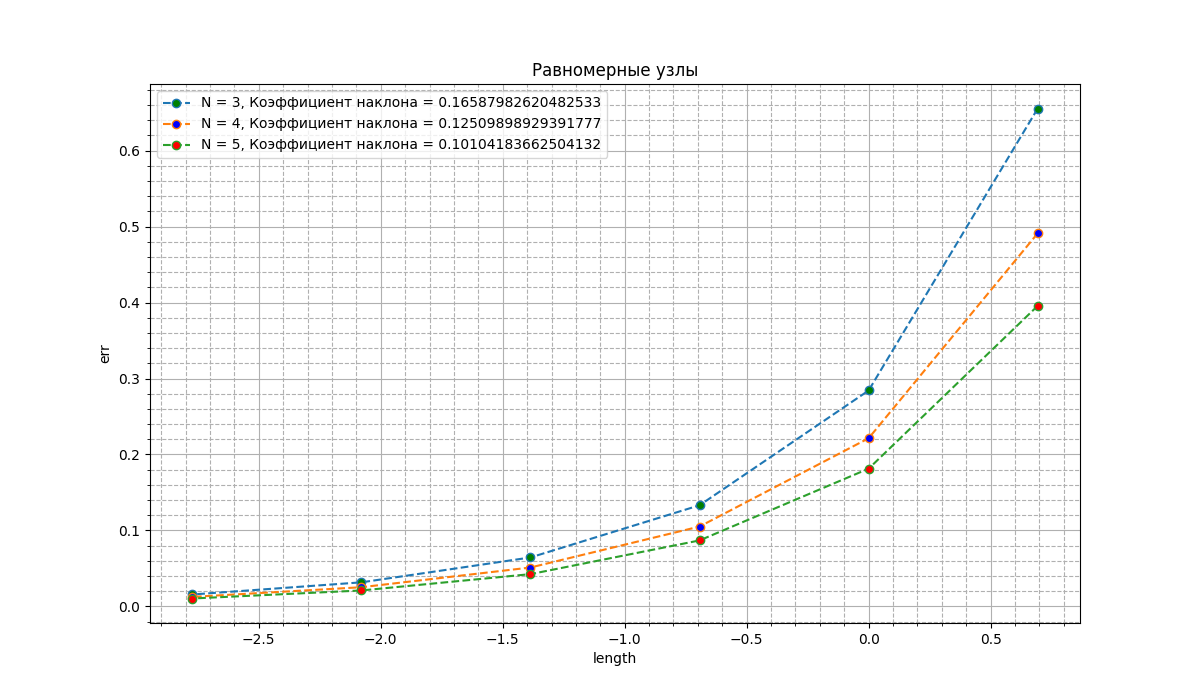
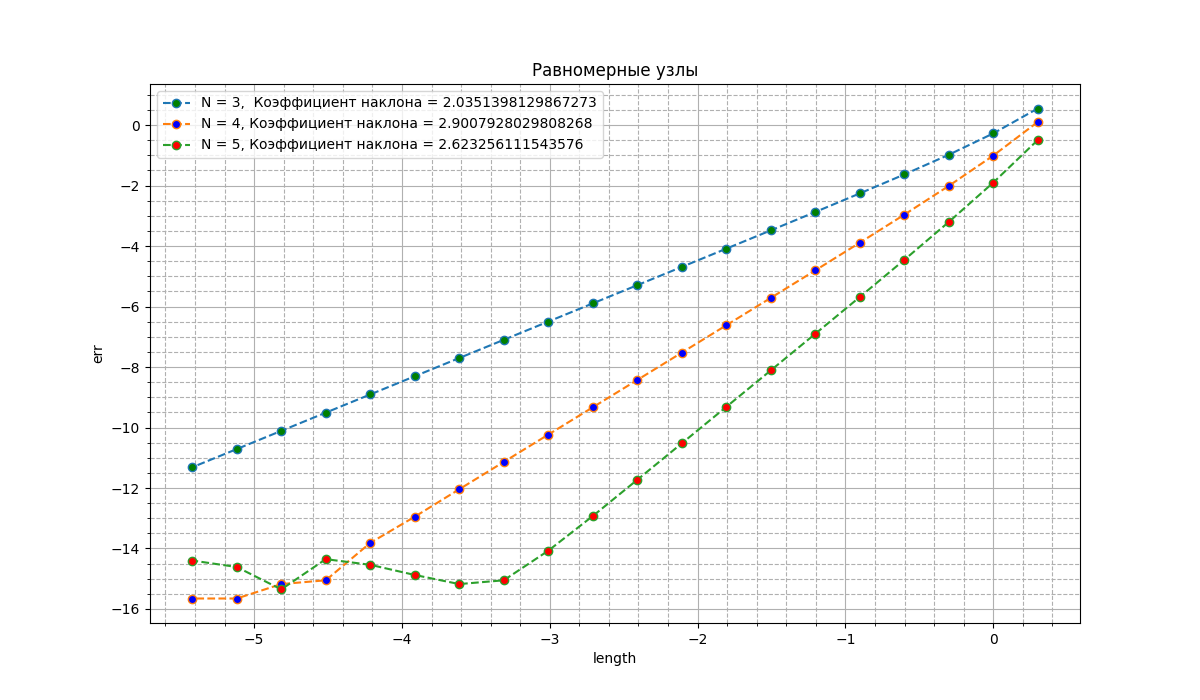
fix second lab

Changed region(s): [[0.0925, 0.12, 0.8942, 0.93], [0.0925, 0.21, 0.1233, 0.24], [0.0617, 0.48, 0.0925, 0.51]]

diff --git a/py/Interpolant/main.py b/py/Interpolant/main.py
@@ -4,22 +4,41 @@ import numpy as np
 
 def grafik():
     with open('errSecondBaseN3.txt', 'r') as errFile:
-        line1 = [i for i in errFile.read().split()]
+        pairLine= [i.split() for i in errFile.readlines()]
+        line1x = [i[1] for i in pairLine]
+        line1y = [i[0] for i in pairLine]
+        line1z = [i[2] for i in pairLine]
     with open('errSecondBaseN4.txt', 'r') as errFile:
-        line2 = [i for i in errFile.read().split()]
+        pairLine = [i.split() for i in errFile.readlines()]
+        line2x = [i[1] for i in pairLine]
+        line2y = [i[0] for i in pairLine]
+        line2z = [i[2] for i in pairLine]
     with open('errSecondBaseN5.txt', 'r') as errFile:
-        line3 = [i for i in errFile.read().split()]
+        pairLine = [i.split() for i in errFile.readlines()]
+        line3x = [i[1] for i in pairLine]
+        line3y = [i[0] for i in pairLine]
+        line3z = [i[2] for i in pairLine]
         h = []
         h.append(2.)
         for i in range(5):
             h.append(h[-1] * 0.5)
     h = np.array(h, dtype=float)
-    line1 = np.array(line1, dtype=float)
-    line2 = np.array(line2, dtype=float)
-    line3 = np.array(line3, dtype=float)
-    coef1 = np.polyfit(np.log10(h), np.log10(line1), 1)
-    coef2 = np.polyfit(np.log10(h), np.log10(line2), 1)
-    coef3 = np.polyfit(np.log10(h), np.log10(line3), 1)
+    line1x = np.array(line1x, dtype=float)
+    line1y = np.array(line1y, dtype=float)
+    line1z = np.array(line1z, dtype=float)
+    line2x = np.array(line2x, dtype=float)
+    line2y = np.array(line2y, dtype=float)
+    line2z = np.array(line2z, dtype=float)
+    line3x = np.array(line3x, dtype=float)
+    line3y = np.array(line3y, dtype=float)
+    line3z = np.array(line3z, dtype=float)
+    coef1 = np.polyfit(np.log(line1x), np.log(line1y), 1)
+    coef2 = np.polyfit(np.log(line2x), np.log(line2y), 1)
+    coef3 = np.polyfit(np.log(line3x), np.log(line3y), 1)
+    coef1z = 3 + np.log(line1z)/np.log(line1x) - np.log(3)/np.log(line1x)
+    print(coef1z)
+    coef2z = 4 + np.log(line2z)/np.log(line2x) - np.log(4)/np.log(line3x)
+    coef3z = 5 + np.log(line3z)/np.log(line3x) - np.log(5)/np.log(line3x)
     plt.figure(figsize=(12, 7))
     plt.minorticks_on()
     plt.grid(
@@ -30,12 +49,12 @@ def grafik():
         linestyle='--'
     )
 
-    plt.plot(np.log(h), np.log(line1), linestyle='dashed', marker='o', markerfacecolor='green',
-             label=f'N = 3, Коэффициент наклона = {coef1[0]}')
-    plt.plot(np.log(h), np.log(line2), linestyle='dashed', marker='o', markerfacecolor='blue',
-             label=f'N = 4, Коэффициент наклона = {coef2[0]}')
-    plt.plot(np.log(h), np.log(line3), linestyle='dashed', marker='o', markerfacecolor='red',
-             label=f'N = 5, Коэффициент наклона = {coef3[0]}')
+    plt.plot(np.log(line1x), np.log(line1y), linestyle='dashed', marker='o', markerfacecolor='green',
+             label=f'N = 3, Коэффициент наклона = {coef1[0]}, {np.min(coef1z)}')
+    plt.plot(np.log(line2x), np.log(line2y), linestyle='dashed', marker='o', markerfacecolor='blue',
+             label=f'N = 4, Коэффициент наклона = {coef2[0]}, {np.min(coef2z)}')
+    plt.plot(np.log(line3x), np.log(line3y), linestyle='dashed', marker='o', markerfacecolor='red',
+             label=f'N = 5, Коэффициент наклона = {coef3[0]}, {np.min(coef3z)}')
     # plt.loglog(h, line1, linestyle='dashed', marker='o', markerfacecolor='green',
     #          label=f'N = 3, Коэффициент наклона = {coef1[0]}')
     # plt.loglog(h, line2, linestyle='dashed', marker='o', markerfacecolor='green',
@@ -44,14 +63,14 @@ def grafik():
     #          label=f'N = 5, Коэффициент наклона = {coef3[0]}')
     #plt.xlim([-4, 2])
     #plt.ylim([0, 1])
-    plt.xlabel("length")
+    plt.xlabel("step")
     plt.ylabel(r"err")
     plt.title('Равномерные узлы')
     plt.legend()
     plt.savefig("basicLogLog.png")
     plt.show()
 
-def grafik2():
+def grafikCheb():
     with open('errChebBaseN3.txt', 'r') as errFile:
         line1 = [i for i in errFile.read().split()]
     with open('errChebBaseN4.txt', 'r') as errFile:
@@ -60,7 +79,7 @@ def grafik2():
         line3 = [i for i in errFile.read().split()]
         h = []
         h.append(2.)
-        for i in range(5):
+        for i in range(19):
             h.append(h[-1] * 0.5)
     h = np.array(h, dtype=float)
     line1 = np.array(line1, dtype=float)
@@ -76,21 +95,69 @@ def grafik2():
         which='minor',
         linestyle='--'
     )
-    print(np.log(line1))
-    print(np.log(h))
-    plt.plot(h, np.log(line1), linestyle='dashed', marker='o', markerfacecolor='green',
-             label=f'N = 3')
-    plt.plot(h, np.log(line2), linestyle='dashed', marker='o', markerfacecolor='blue',
-             label=f'N = 4')
-    plt.plot(h,np.log(line3), linestyle='dashed', marker='o', markerfacecolor='red',
-             label=f'N = 5')
-    plt.xlim([0,2])
-    plt.ylim([0,3])
+    coef1 = np.polyfit(np.log(h), np.log(line1), 1)
+    coef2 = np.polyfit(np.log(h), np.log(line2), 1)
+    coef3 = np.polyfit(np.log(h), np.log(line3), 1)
+    plt.plot(np.log(h), np.log(line1), linestyle='dashed', marker='o', markerfacecolor='green',
+             label=f'N = 3,  Коэффициент наклона = {coef1[0]}')
+    plt.plot(np.log(h), np.log(line2), linestyle='dashed', marker='o', markerfacecolor='blue',
+             label=f'N = 4, Коэффициент наклона = {coef2[0]}')
+    plt.plot(np.log(h),np.log(line3), linestyle='dashed', marker='o', markerfacecolor='red',
+             label=f'N = 5, Коэффициент наклона = {coef3[0]}')
+    # plt.xlim([0,2])
+    # plt.ylim([0,1])
     plt.xlabel("length")
     plt.ylabel(r"err")
     plt.title('Чебышевские узлы')
     plt.legend()
     plt.savefig("basicChebLogLog.png")
     plt.show()
+
+def grafikBase():
+    with open('errBaseN3.txt', 'r') as errFile:
+        line1 = [i for i in errFile.read().split()]
+    with open('errBaseN4.txt', 'r') as errFile:
+        line2 = [i for i in errFile.read().split()]
+    with open('errBaseN5.txt', 'r') as errFile:
+        line3 = [i for i in errFile.read().split()]
+        h = []
+        h.append(2.)
+        for i in range(19):
+            h.append(h[-1] * 0.5)
+    h = np.array(h, dtype=float)
+    line1 = np.array(line1, dtype=float)
+    line2 = np.array(line2, dtype=float)
+    line3 = np.array(line3, dtype=float)
+
+    plt.figure(figsize=(12, 7))
+    plt.minorticks_on()
+    plt.grid(
+        which='major'
+    )
+    plt.grid(
+        which='minor',
+        linestyle='--'
+    )
+    coef1 = np.polyfit(np.log10(h), np.log10(line1), 1)
+    coef2 = np.polyfit(np.log10(h), np.log10(line2), 1)
+    coef3 = np.polyfit(np.log10(h), np.log10(line3), 1)
+    plt.plot(np.log10(h), np.log10(line1), linestyle='dashed', marker='o', markerfacecolor='green',
+             label=f'N = 3,  Коэффициент наклона = {coef1[0]}')
+    plt.plot(np.log10(h), np.log10(line2), linestyle='dashed', marker='o', markerfacecolor='blue',
+             label=f'N = 4, Коэффициент наклона = {coef2[0]}')
+    plt.plot(np.log10(h),np.log10(line3), linestyle='dashed', marker='o', markerfacecolor='red',
+             label=f'N = 5, Коэффициент наклона = {coef3[0]}')
+    # plt.xlim([0,2])
+    # plt.ylim([0,1])
+    plt.xlabel("length")
+    plt.ylabel(r"err")
+    plt.title('Равномерные узлы')
+    plt.legend()
+    plt.savefig("basicLogLog.png")
+    plt.show()
+
+
+
+
 if __name__ == '__main__':
-    grafik()
+

diff --git a/tests/InterpolantTests.cpp b/tests/InterpolantTests.cpp
@@ -43,6 +43,7 @@ TEST(InterpolantTests, baseTest){
     fileOutBaseN5.open(py_path + "/Interpolant/errBaseN5.txt");
     double x = 2;
     double nulik = 0;
+    int length = 20;
     std::array<double, 3> pointsN3{};
     std::array<double, 3> valuesN3{};
     std::array<double, 4> pointsN4{};
@@ -51,10 +52,10 @@ TEST(InterpolantTests, baseTest){
     std::array<double, 5> valuesN5{};
     std::array<double, 1000> valuesErr{};
     std::array<double, 1000> pointsErr{};
-    for(int i = 0; i < 6; i++){
+    for(int i = 0; i < length; i++){
         double err = 0;
         double x_i = x / std::pow(x, i);
-        double step_i = x_i / 2;
+        double step_i = x_i / 3;
         double step_err = x_i / 999.;
         for(int j = 0; j < 3; j++){
             pointsN3[j] = j * step_i;
@@ -65,6 +66,7 @@ TEST(InterpolantTests, baseTest){
         }
 
         NewtonInterpolator<double, double, 3> interpolator(pointsN3, valuesN3);
+
         for(int j = 0; j < 1000; j++){
             double interpV = interpolator.interpolate(pointsErr[j]);
             err = std::max(std::abs(std::exp(pointsErr[j]) - interpV), err);
@@ -73,10 +75,10 @@ TEST(InterpolantTests, baseTest){
     }
 
 
-    for(int i = 0; i < 6; i++){
+    for(int i = 0; i < length; i++){
         double err = 0;
         double x_i = x / std::pow(x, i);
-        double step_i = x_i / 3;
+        double step_i = x_i / 4;
         double step_err = x_i / 999.;
         for(int j = 0; j < 4; j++){
             pointsN4[j] = j * step_i;
@@ -95,10 +97,10 @@ TEST(InterpolantTests, baseTest){
     }
 
 
-    for(int i = 0; i < 6; i++){
+    for(int i = 0; i < length; i++){
         double err = 0;
         double x_i = x / std::pow(x, i);
-        double step_i = x_i / 4;
+        double step_i = x_i / 5;
         double step_err = x_i / 999.;
         for(int j = 0; j < 5; j++){
             pointsN5[j] = j * step_i;
@@ -114,6 +116,7 @@ TEST(InterpolantTests, baseTest){
             err = std::max(std::abs(std::exp(pointsErr[j]) - interpV), err);
         }
         fileOutBaseN5<<err<<"\n";
+
     }
 
 }
@@ -126,6 +129,7 @@ TEST(InterpolantTests, baseChebTest){
     fileOutBaseN5.open(py_path + "/Interpolant/errChebBaseN5.txt");
     double x = 2;
     double nulik = 0;
+    int length = 20;
     std::array<double, 3> pointsN3{};
     std::array<double, 3> valuesN3{};
     std::array<double, 4> pointsN4{};
@@ -134,7 +138,7 @@ TEST(InterpolantTests, baseChebTest){
     std::array<double, 5> valuesN5{};
     std::array<double, 1000> pointsErr{};
 
-    for(int i = 0; i < 6; i++){
+    for(int i = 0; i < length; i++){
         double err = 0;
         double x_i = x / std::pow(x, i);
         pointsN3 = chebNulls<double, 3>(double(0), x_i);
@@ -154,7 +158,7 @@ TEST(InterpolantTests, baseChebTest){
         fileOutBaseN3<<err<<"\n";
     }
 
-    for(int i = 0; i < 6; i++){
+    for(int i = 0; i < length; i++){
         double err = 0;
         double x_i = x / std::pow(x, i);
         pointsN4 = chebNulls<double, 4>(double(0), x_i);
@@ -175,7 +179,7 @@ TEST(InterpolantTests, baseChebTest){
     }
 
 
-    for(int i = 0; i < 6; i++){
+    for(int i = 0; i < length; i++){
         double err = 0;
         double x_i = x / std::pow(x, i);
         pointsN5 = chebNulls<double, 5>(double(0), x_i);
@@ -200,10 +204,11 @@ TEST(InterpolantTests, baseSecondTest){
     std::ofstream fileOutBaseN3;
     std::ofstream fileOutBaseN4;
     std::ofstream fileOutBaseN5;
-    
+    std::ofstream fileOutBaseArgsN5;
     fileOutBaseN3.open(py_path + "/Interpolant/errSecondBaseN3.txt");
     fileOutBaseN4.open(py_path + "/Interpolant/errSecondBaseN4.txt");
     fileOutBaseN5.open(py_path + "/Interpolant/errSecondBaseN5.txt");
+    fileOutBaseArgsN5.open(py_path + "/Interpolant/errArgsBaseN5.txt");
     double x = 2;
     double nulik = 0;
     std::array<double, 3> pointsN3{};
@@ -216,6 +221,7 @@ TEST(InterpolantTests, baseSecondTest){
     std::array<double, 1000> pointsErr{};
     for(int i = 0; i < 6; i++){
         double err = 0;
+        double maxVal = 0;
         double x_i = x / std::pow(x, i);
         double step_i = x_i / 4;
         double step_err = x_i / 999.;
@@ -231,13 +237,15 @@ TEST(InterpolantTests, baseSecondTest){
         for(int j = 0; j < 1000; j++){
             double interpV = interpolator.interpolate(pointsErr[j]);
             err = std::max(std::abs(std::exp(pointsErr[j]) - interpV), err);
+            maxVal = std::max(std::exp(pointsErr[j]), maxVal);
         }
-        fileOutBaseN3<<err<<"\n";
+        fileOutBaseN3<<err<<" "<< step_i<<" " << maxVal<<"\n";
     }
 
 
     for(int i = 0; i < 6; i++){
         double err = 0;
+        double maxVal = 0;
         double x_i = x / std::pow(x, i);
         double step_i = x_i / 5;
         double step_err = x_i / 999.;
@@ -253,13 +261,16 @@ TEST(InterpolantTests, baseSecondTest){
         for(int j = 0; j < 1000; j++){
             double interpV = interpolator.interpolate(pointsErr[j]);
             err = std::max(std::abs(std::exp(pointsErr[j]) - interpV), err);
+            maxVal = std::max(std::exp(pointsErr[j]), maxVal);
+
         }
-        fileOutBaseN4<<err<<"\n";
+        fileOutBaseN4<<err<<" "<< step_i<<" " << maxVal<<"\n";
     }
 
 
     for(int i = 0; i < 6; i++){
         double err = 0;
+        double maxVal = 0;
         double x_i = x / std::pow(x, i);
         double step_i = x_i / 6;
         double step_err = x_i / 999.;
@@ -275,8 +286,10 @@ TEST(InterpolantTests, baseSecondTest){
         for(int j = 0; j < 1000; j++){
             double interpV = interpolator.interpolate(pointsErr[j]);
             err = std::max(std::abs(std::exp(pointsErr[j]) - interpV), err);
+            maxVal = std::max(std::exp(pointsErr[j]), maxVal);
+
         }
-        fileOutBaseN5<<err<<"\n";
+        fileOutBaseN5<<err<<" "<< step_i<<" " << maxVal<<"\n";
     }
 
 }

diff --git a/src/Interpolant.hpp b/src/Interpolant.hpp
@@ -25,10 +25,10 @@ public:
         }
     }
     yType interpolate(const xType& x) const noexcept{
-        yType D = 0;
-        for(int64_t i = int64_t(N) - 1; i >= 0;  i--){
-            D += splitDif[i];
-            D *=(x - points[i]);
+        int64_t n = N - 1;
+        yType D = *splitDif.end();
+        for(int64_t i = 1; i < N;  i++){
+            D = splitDif[n - i] + (x - points[n - i]) * D;
         }
         return D;
     }
